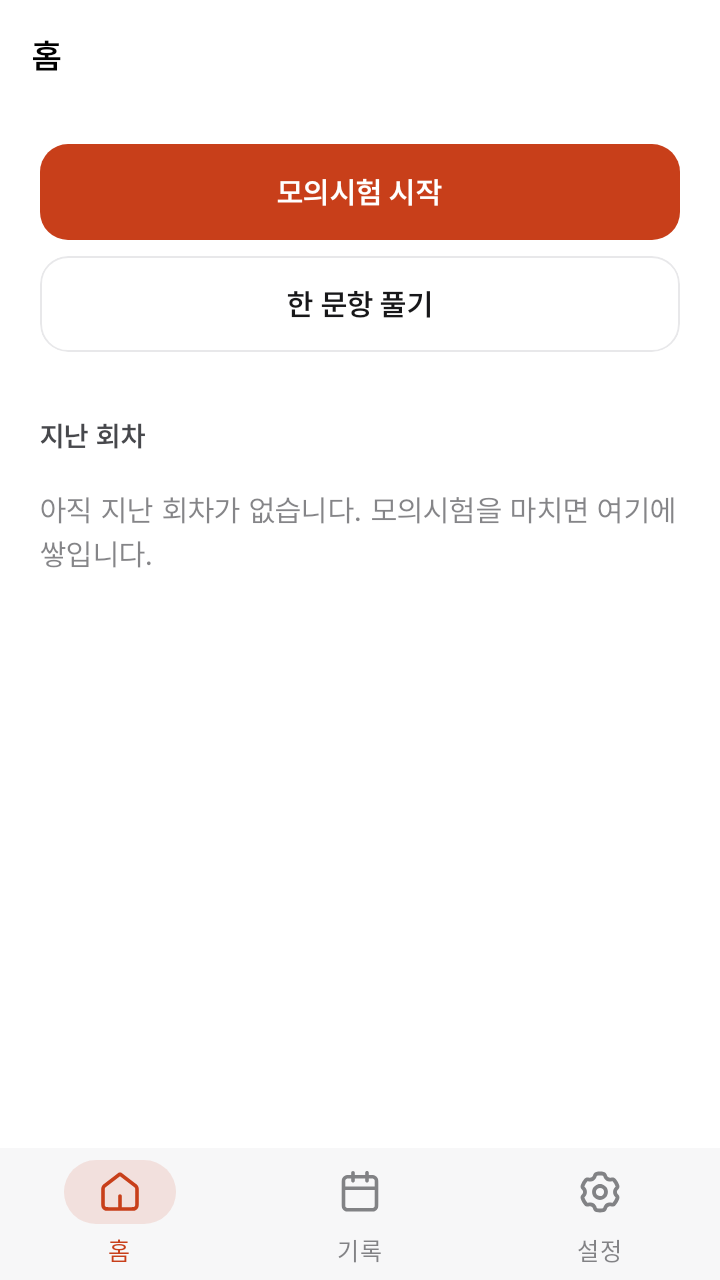
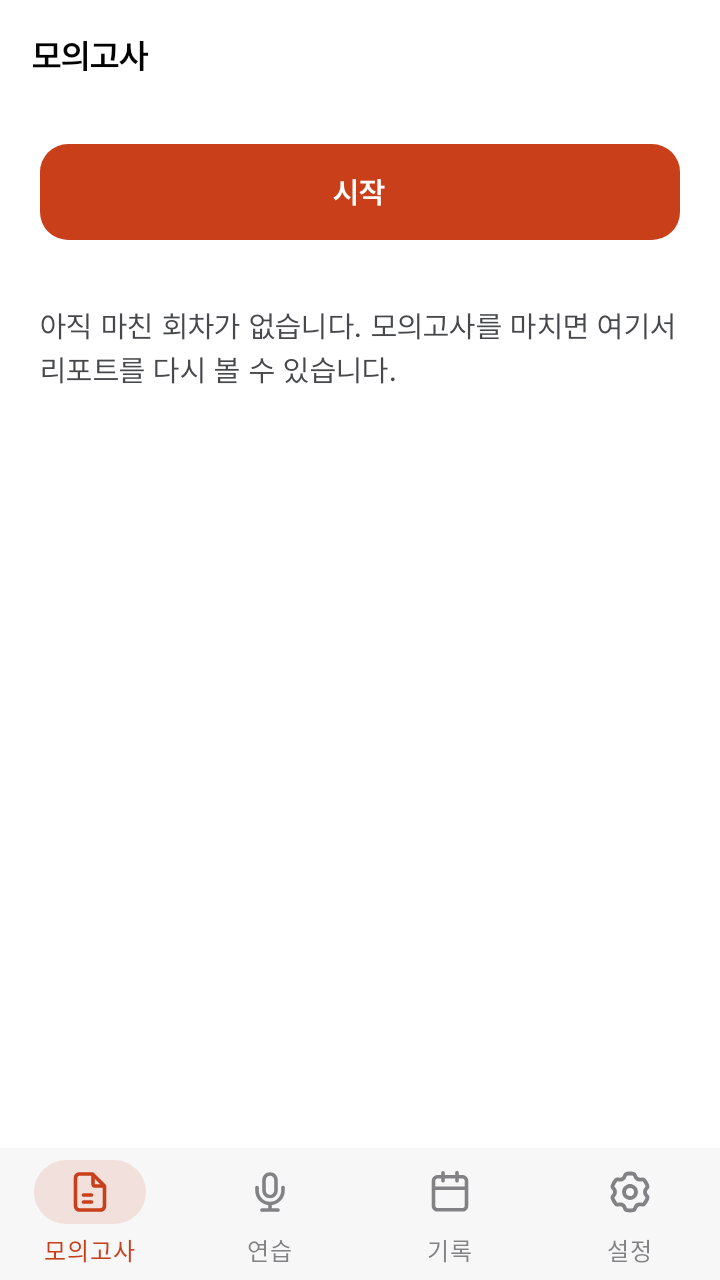
[tabs] 시작 분기 테스트를 모의고사 탭에 맞추고 탭 화면 스크린샷을 다시 찍었다 (#215)

diff --git a/apps/opic/shared/src/androidHostTest/kotlin/io/github/nosorae/aiopic/apps/opic/shared/StartDestinationTest.kt b/apps/opic/shared/src/androidHostTest/kotlin/io/github/nosorae/aiopic/apps/opic/shared/StartDestinationTest.kt
@@ -51,22 +51,22 @@ class StartDestinationTest {
     }
 
     @Test
-    fun `F1_0 키와 동의가 모두 있으면 홈에서 시작한다`() {
+    fun `F1_0 키와 동의가 모두 있으면 모의고사 탭에서 시작한다`() {
         runBlocking { settings.give() }
 
         start(savedKey())
 
-        rule.onNodeWithText("모의시험 시작").assertIsDisplayed()
+        rule.onNodeWithText("시작").assertIsDisplayed()
         rule.onNodeWithText("기록").assertIsDisplayed()
     }
 
     @Test
-    fun `F1_0 동의 화면에서 동의하면 홈으로 간다`() {
+    fun `F1_0 동의 화면에서 동의하면 모의고사 탭으로 간다`() {
         start(savedKey())
 
         rule.onNodeWithText("동의하고 계속하기").performClick()
 
-        rule.waitUntil(5_000) { rule.onAllNodes(hasText("모의시험 시작")).fetchSemanticsNodes().isNotEmpty() }
+        rule.waitUntil(5_000) { rule.onAllNodes(hasText("시작")).fetchSemanticsNodes().isNotEmpty() }
     }
 
     @Test
@@ -84,7 +84,7 @@ class StartDestinationTest {
 
         assertTrue(startViewModel.uiState.value.keepSplash)
         rule.onNodeWithText("키 확인하고 저장").assertDoesNotExist()
-        rule.onNodeWithText("모의시험 시작").assertDoesNotExist()
+        rule.onNodeWithText("시작").assertDoesNotExist()
 
         opened.complete(Unit)
         rule.waitForIdle()

diff --git a/ui/feature-home/src/commonMain/kotlin/io/github/nosorae/aiopic/ui/featurehome/HomeScreen.kt b/ui/feature-home/src/commonMain/kotlin/io/github/nosorae/aiopic/ui/featurehome/HomeScreen.kt
@@ -84,7 +84,7 @@ fun HomeScreen(
                 last != null -> Group {
                     val grade = last.gradeRange ?: stringResource(Res.string.home_grade_pending)
                     val detail = if (last.timeUp) "$grade, ${stringResource(Res.string.home_time_up)}" else grade
-                    Caption("${stringResource(Res.string.home_review_session, last.number)}  $detail")
+                    Caption(stringResource(Res.string.home_review_session, last.number, detail))
                     MontageButton(
                         text = stringResource(Res.string.home_review),
                         onClick = { onSessionClick(last.id) },
